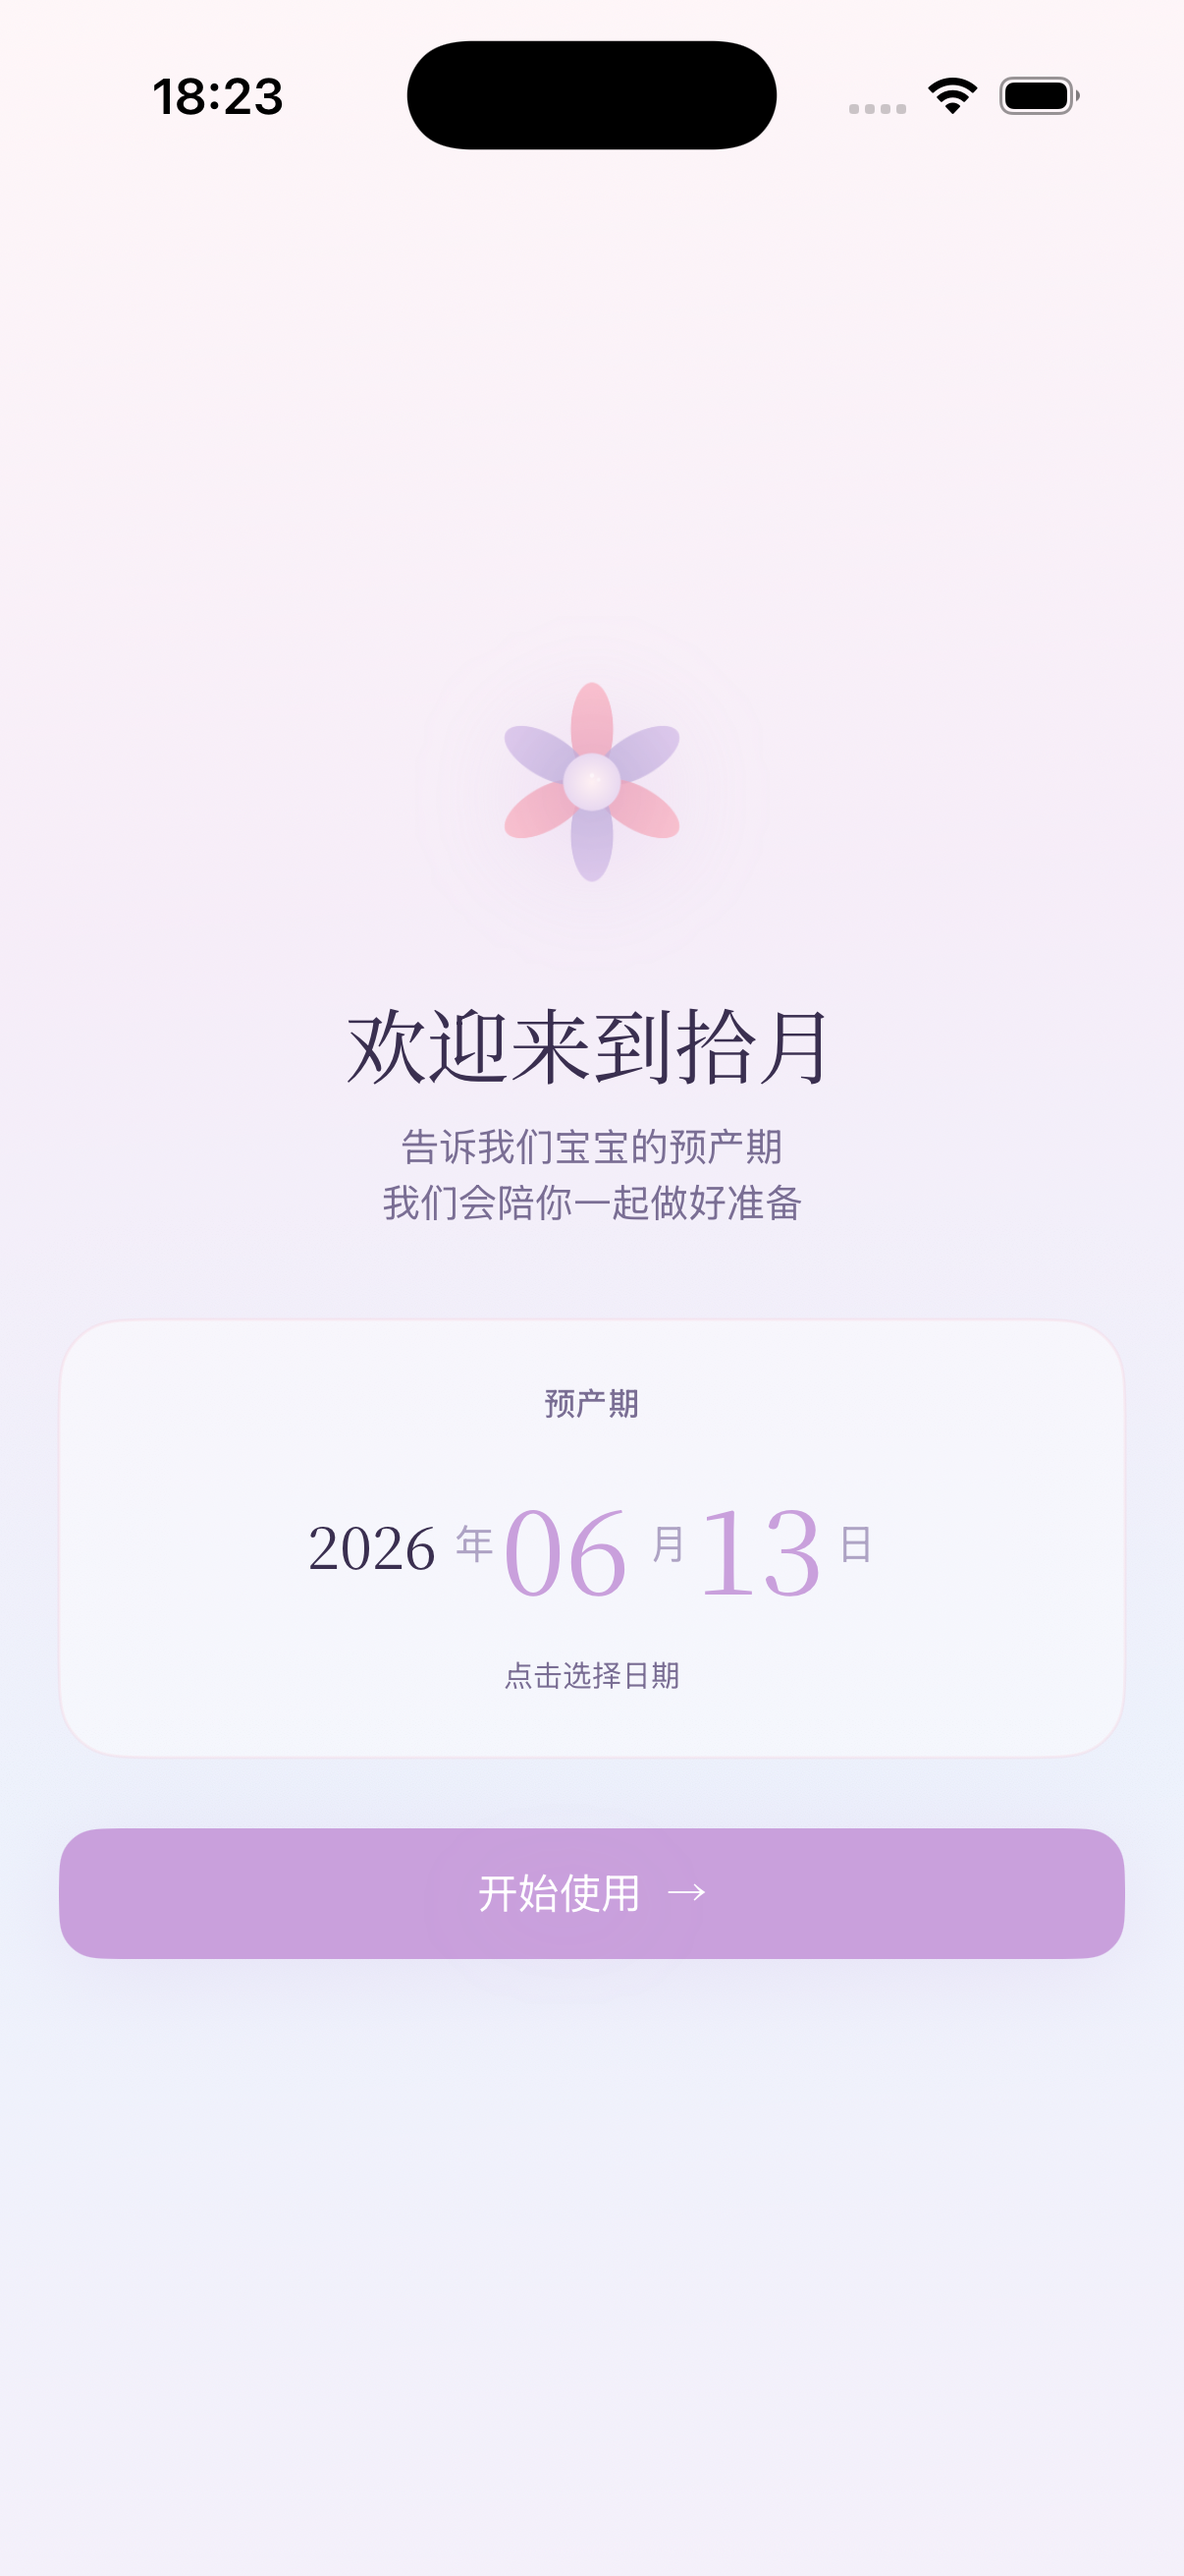
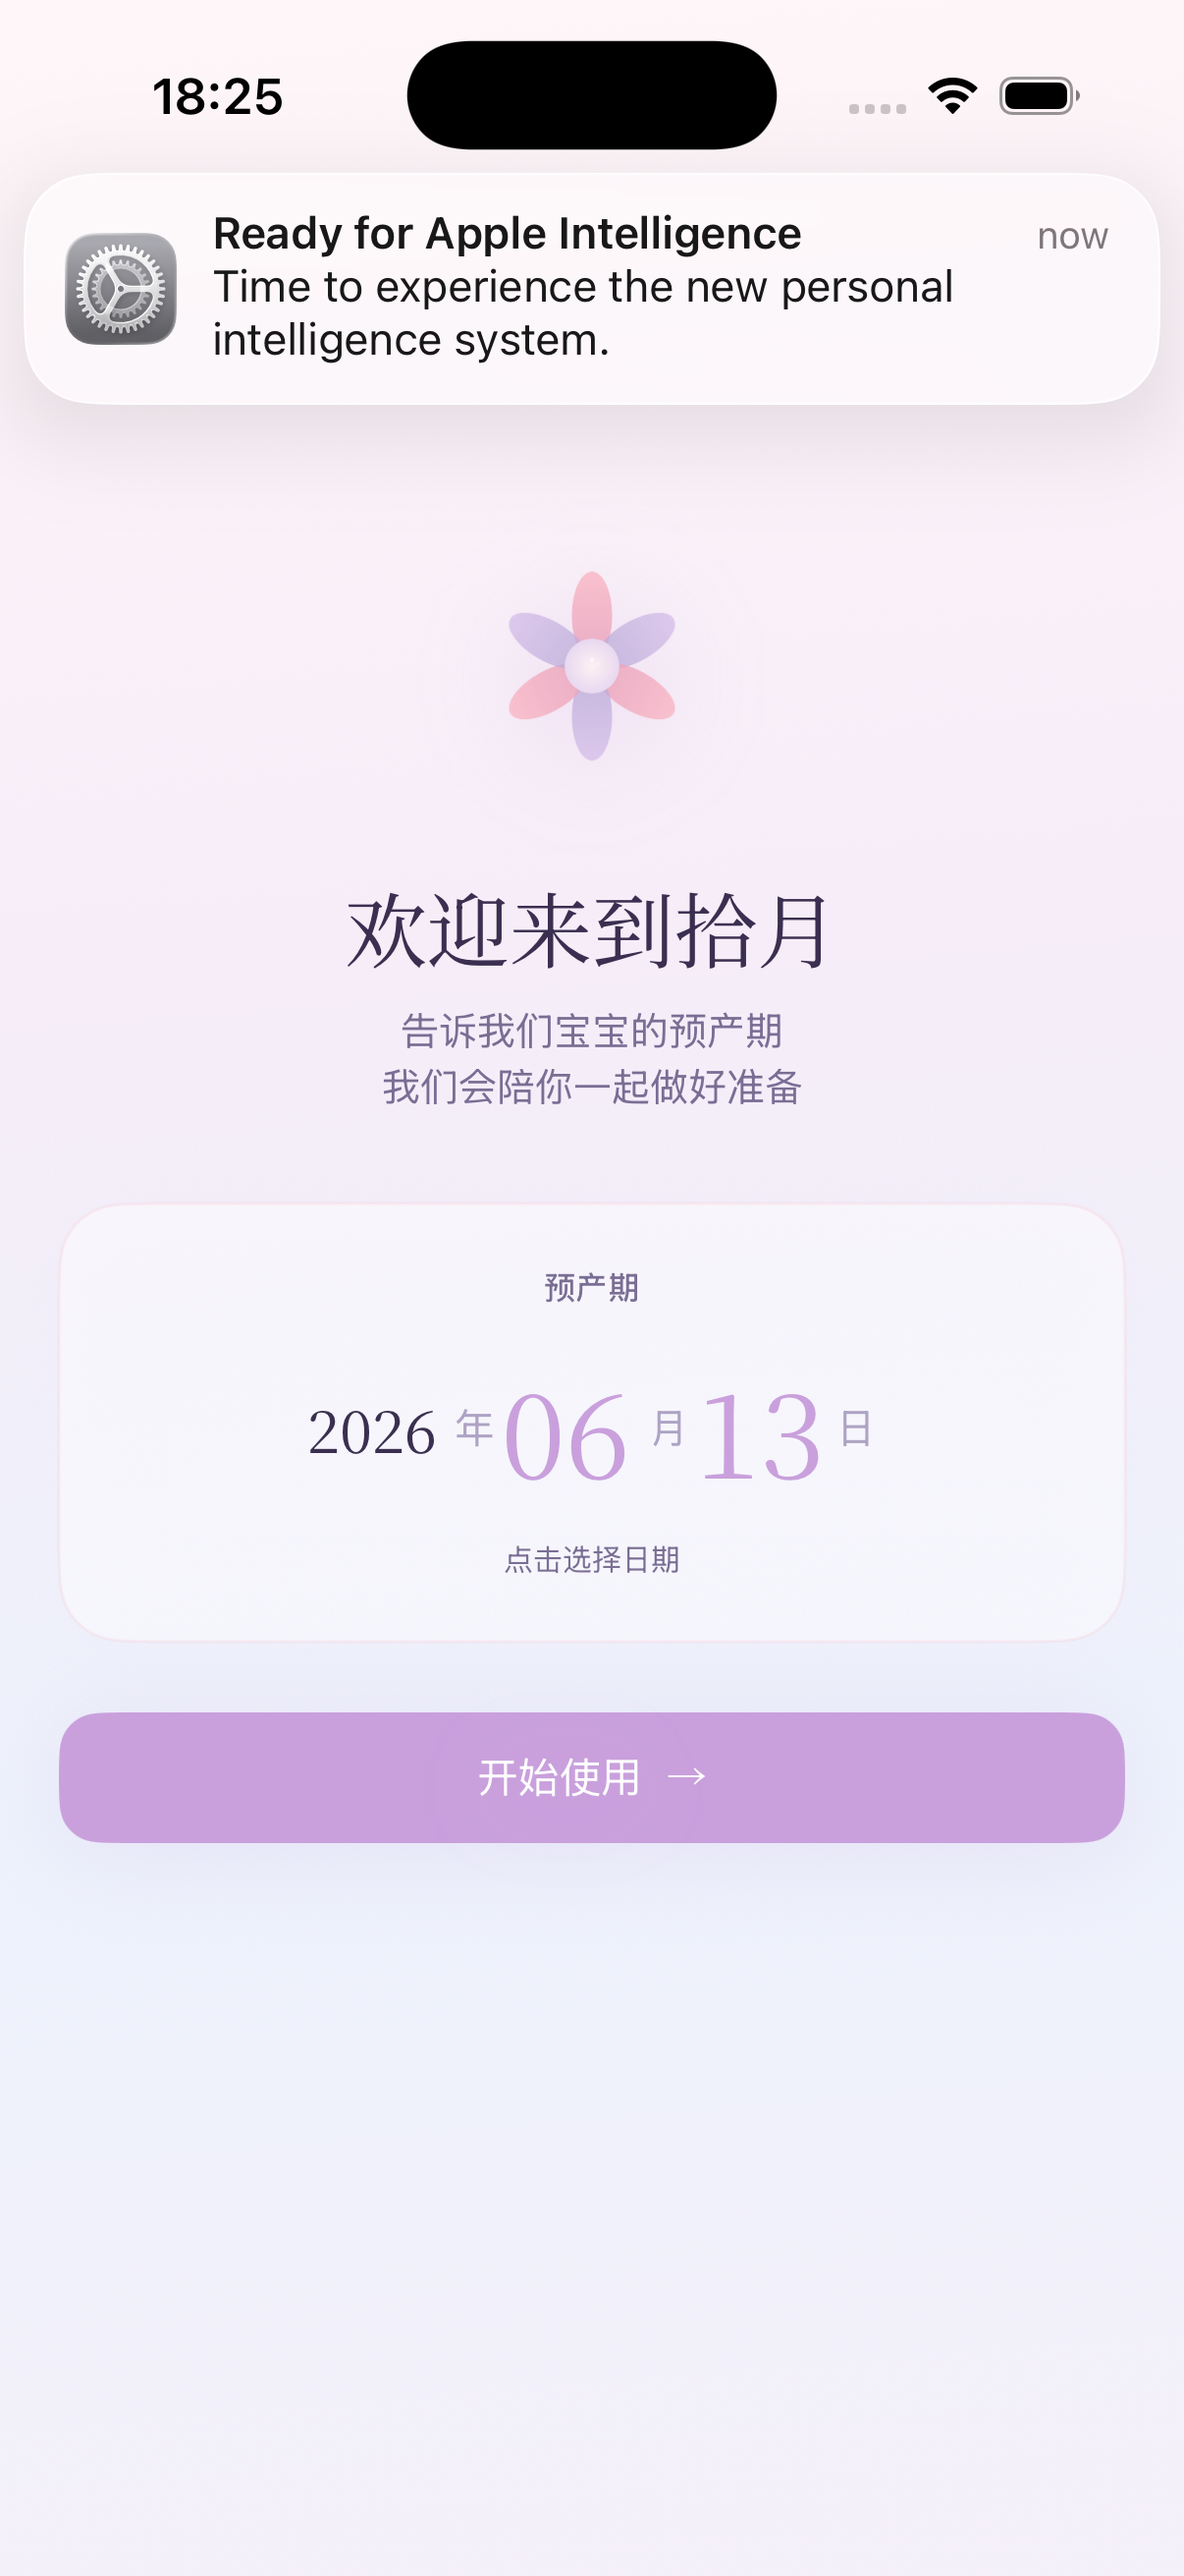
fix: fixed top padding so flower/title don't shift between states
Replace top Spacer with fixed 120pt padding. Flower, title, and subtitle
stay at same position regardless of card height (default vs picker).

diff --git a/Blossom/Views/OnboardingView.swift b/Blossom/Views/OnboardingView.swift
@@ -75,7 +75,10 @@ struct OnboardingView: View {
                 .ignoresSafeArea()
             
             VStack(spacing: 0) {
-                Spacer()
+                // Fixed top padding — flower/title/subtitle stay at same position
+                // regardless of card height (default vs picker state)
+                Color.clear.frame(height: 0)
+                    .padding(.top, 120)
                 
                 // App Icon 花朵 + 呼吸动效
                 BlossomFlowerIcon(size: 88)
